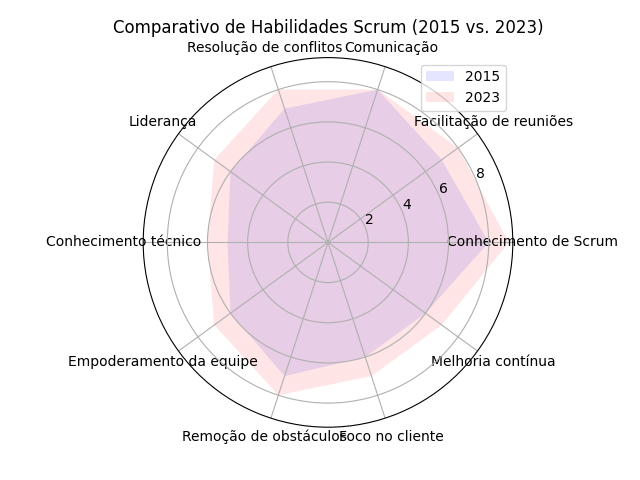
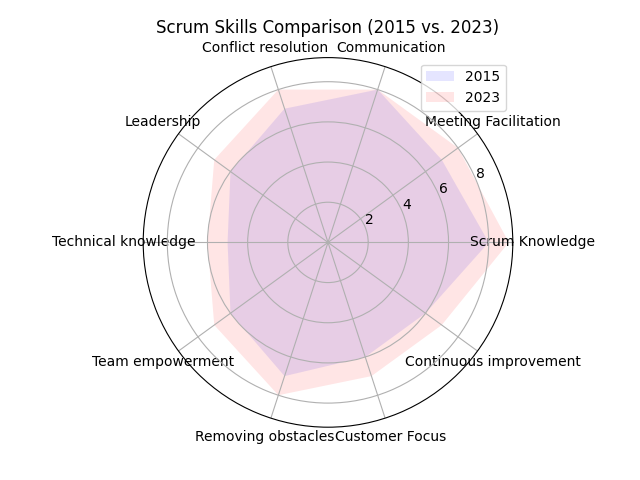
nov 8 wed

diff --git a/insights/articles/habilidadesScrum.py b/insights/articles/habilidadesScrum.py
@@ -3,16 +3,16 @@ import numpy as np
 
 # Habilidades e valores para 2015 e 2020
 habilidades = [
-    "Conhecimento de Scrum",
-    "Facilitação de reuniões",
-    "Comunicação",
-    "Resolução de conflitos",
-    "Liderança",
-    "Conhecimento técnico",
-    "Empoderamento da equipe",
-    "Remoção de obstáculos",
-    "Foco no cliente",
-    "Melhoria contínua"
+    "Scrum Knowledge",
+     "Meeting Facilitation",
+     "Communication",
+     "Conflict resolution",
+     "Leadership",
+     "Technical knowledge",
+     "Team empowerment",
+     "Removing obstacles",
+     "Customer Focus",
+     "Continuous improvement"
 ]
 
 valores_2015 = [8, 7, 8, 7, 6, 5, 6, 7, 6, 6]  # Valores em 2015
@@ -35,7 +35,7 @@ ax.fill(angulos, valores_2015, 'b', alpha=0.1, label='2015')
 ax.fill(angulos, valores_2020, 'r', alpha=0.1, label='2023')
 ax.set_xticks(angulos[:-1])
 ax.set_xticklabels(habilidades)
-ax.set_title('Comparativo de Habilidades Scrum (2015 vs. 2023)')
+ax.set_title('Scrum Skills Comparison (2015 vs. 2023)')
 
 # Adicione uma legenda
 plt.legend(loc='upper right')
